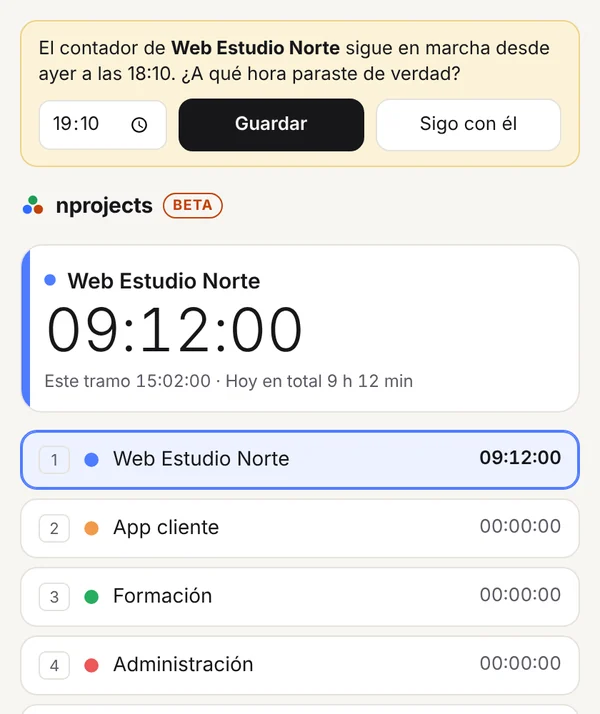
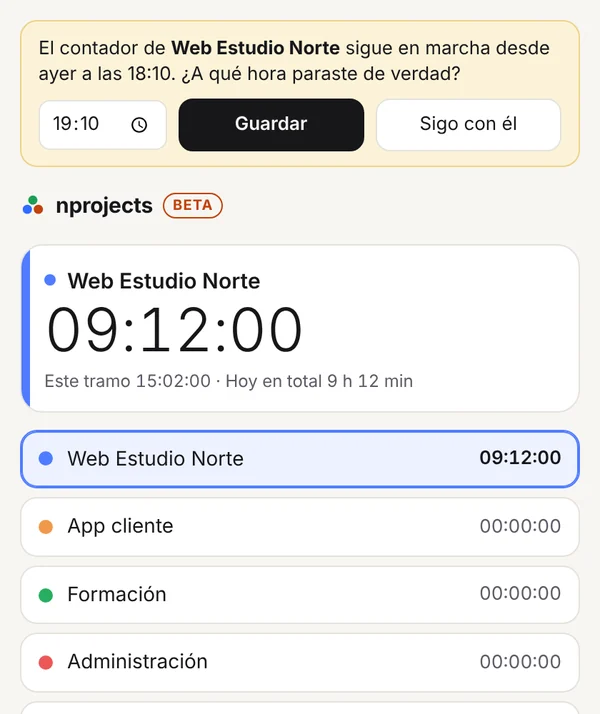
Quitar las referencias a los atajos de teclado en la web y en la app
Mientras no exista la versión de escritorio, las teclas solo funcionan
con la ventana de nprojects activa. Se cambia el mensaje a «un clic»:
- App: sin insignias de número en los proyectos ni textos de teclas.
- Web: textos, tarjeta, tabla de diferencias, plan Gratis y maqueta.
- Capturas regeneradas.
Los atajos siguen funcionando, pero sin anunciarse.

Claude-Session: https://claude.ai/code/session_01NjNeR2BJbp8xc9cegBDyTH

Changed region(s): [[0.06, 0.8011, 0.96, 0.9552], [0.03, 0.6162, 0.96, 0.7703], [0.93, 0.986, 0.96, 1.0]]

diff --git a/index.html b/index.html
@@ -4,9 +4,9 @@
 <meta charset="utf-8">
 <meta name="viewport" content="width=device-width, initial-scale=1">
 <title>nprojects · Sabe cuánto tiempo le das a cada proyecto</title>
-<meta name="description" content="Un contador diminuto para Mac y Windows. Cambias de proyecto con una tecla y al final del día ves cómo se repartió tu tiempo. Apúntate a la lista de espera.">
+<meta name="description" content="Un contador diminuto para Mac y Windows. Cambias de proyecto con un clic y al final del día ves cómo se repartió tu tiempo. Apúntate a la lista de espera.">
 <meta property="og:title" content="nprojects · Sabe cuánto tiempo le das a cada proyecto">
-<meta property="og:description" content="Un contador diminuto para Mac y Windows. Cambias de proyecto con una tecla y al final del día ves cómo se repartió tu tiempo.">
+<meta property="og:description" content="Un contador diminuto para Mac y Windows. Cambias de proyecto con un clic y al final del día ves cómo se repartió tu tiempo.">
 <meta property="og:type" content="website">
 <link rel="icon" href="favicon.svg" type="image/svg+xml">
 <link rel="preconnect" href="https://fonts.googleapis.com">
@@ -30,7 +30,7 @@
     <div class="hero-copy">
       <span class="pill">Para Mac y Windows · Próximamente</span>
       <h1>Sabe cuánto tiempo le das a cada proyecto. Sin pensar en ello.</h1>
-      <p class="lead">Un contador diminuto que vive en una esquina de tu pantalla. Cambias de proyecto con una tecla y, al final del día, ves cómo se repartió tu tiempo de verdad.</p>
+      <p class="lead">Un contador diminuto que vive en una esquina de tu pantalla. Cambias de proyecto con un clic y, al final del día, ves cómo se repartió tu tiempo de verdad.</p>
       <form class="waitlist" data-source="hero" novalidate>
         <label for="email-top">Tu email</label>
         <div class="field-row">
@@ -60,10 +60,10 @@
           <span class="w-ico"><svg width="10" height="10" viewBox="0 0 10 10"><rect x="1.5" y="1" width="2.5" height="8" rx=".6" fill="#17171A"/><rect x="6" y="1" width="2.5" height="8" rx=".6" fill="#17171A"/></svg></span>
           <span class="w-ico"><svg width="10" height="10" viewBox="0 0 10 10"><rect x="1.5" y="1.5" width="7" height="7" rx="1" fill="#C0392B"/></svg></span>
         </div>
-        <div class="w-row"><span class="k">1</span><span class="dot" style="background:#2F6BFF"></span><span class="n">Web Estudio Norte</span><span class="t">02:10:05</span></div>
-        <div class="w-row on"><span class="k">2</span><span class="dot" style="background:#C2410C"></span><span class="n">App cliente</span><span class="t">01:24:37</span></div>
-        <div class="w-row"><span class="k">3</span><span class="dot" style="background:#1F9D55"></span><span class="n">Formación</span><span class="t">00:45:12</span></div>
-        <div class="w-row"><span class="k">4</span><span class="dot" style="background:#8B5CF6"></span><span class="n">Administración</span><span class="t">00:20:40</span></div>
+        <div class="w-row"><span class="dot" style="background:#2F6BFF"></span><span class="n">Web Estudio Norte</span><span class="t">02:10:05</span></div>
+        <div class="w-row on"><span class="dot" style="background:#C2410C"></span><span class="n">App cliente</span><span class="t">01:24:37</span></div>
+        <div class="w-row"><span class="dot" style="background:#1F9D55"></span><span class="n">Formación</span><span class="t">00:45:12</span></div>
+        <div class="w-row"><span class="dot" style="background:#8B5CF6"></span><span class="n">Administración</span><span class="t">00:20:40</span></div>
       </div>
     </div>
   </section>
@@ -84,9 +84,9 @@
     <h2 class="h2">Pensado para no estorbar</h2>
     <div class="cards">
       <article class="card">
-        <svg width="28" height="28" viewBox="0 0 24 24" fill="none" stroke="#C2410C" stroke-width="1.8" stroke-linecap="round" stroke-linejoin="round" aria-hidden="true"><rect x="2" y="6" width="20" height="12" rx="2"/><path d="M6 10h.01M10 10h.01M14 10h.01M18 10h.01M7 14h10"/></svg>
-        <h3>Cambia con una tecla</h3>
-        <p>Del 1 al 0, desde cualquier app. El proyecto anterior se para y el nuevo empieza a contar.</p>
+        <svg width="28" height="28" viewBox="0 0 24 24" fill="none" stroke="#C2410C" stroke-width="1.8" stroke-linecap="round" stroke-linejoin="round" aria-hidden="true"><path d="M14 4.1 12 6M5.1 8l-2.9-.8M6 12l-1.9 2M7.2 2.2 8 5.1"/><path d="M9.04 9.69a.5.5 0 0 1 .65-.65l11 4.5a.5.5 0 0 1-.07.95l-4.35 1.04a1 1 0 0 0-.74.74l-1.04 4.35a.5.5 0 0 1-.95.07z"/></svg>
+        <h3>Cambia con un clic</h3>
+        <p>Pulsas el proyecto y empieza a contar. El anterior se para solo, sin pasos intermedios.</p>
       </article>
       <article class="card">
         <svg width="28" height="28" viewBox="0 0 24 24" fill="none" stroke="#C2410C" stroke-width="1.8" stroke-linecap="round" stroke-linejoin="round" aria-hidden="true"><rect x="3" y="4" width="18" height="16" rx="2"/><rect x="12" y="7" width="6" height="5" rx="1"/></svg>
@@ -114,8 +114,8 @@
     </div>
     <div class="shots">
       <figure class="shot">
-        <img src="img/app-principal.webp" width="600" height="714" loading="lazy" alt="Pantalla principal de nprojects: el contador de App cliente en marcha y la lista de proyectos con su tecla del 1 al 5">
-        <figcaption><strong>Un proyecto por tecla</strong>Pulsa su número y empieza a contar. El anterior se para solo.</figcaption>
+        <img src="img/app-principal.webp" width="600" height="714" loading="lazy" alt="Pantalla principal de nprojects: el contador de App cliente en marcha y la lista de proyectos con el tiempo de cada uno">
+        <figcaption><strong>Un clic para cambiar</strong>Pulsa un proyecto y empieza a contar. El anterior se para solo.</figcaption>
       </figure>
       <figure class="shot">
         <img src="img/app-resumen.webp" width="600" height="714" loading="lazy" alt="Resumen del día: 7 h 07 min repartidas entre cuatro proyectos, con porcentajes y una barra de cómo se repartió el día">
@@ -162,7 +162,7 @@
           <div class="cmp-row" role="row"><span role="rowheader">Precio</span><span role="cell"><strong>29 € una vez</strong></span><span role="cell">Cuota mensual por usuario</span></div>
           <div class="cmp-row" role="row"><span role="rowheader">Cuenta</span><span role="cell"><strong>No hace falta</strong></span><span role="cell">Obligatoria</span></div>
           <div class="cmp-row" role="row"><span role="rowheader">Tus horas</span><span role="cell"><strong>En tu ordenador</strong></span><span role="cell">En sus servidores</span></div>
-          <div class="cmp-row" role="row"><span role="rowheader">Cambiar de proyecto</span><span role="cell"><strong>Una tecla</strong></span><span role="cell">Abrir, buscar y pulsar</span></div>
+          <div class="cmp-row" role="row"><span role="rowheader">Cambiar de proyecto</span><span role="cell"><strong>Un clic</strong></span><span role="cell">Abrir, buscar y pulsar</span></div>
           <div class="cmp-row" role="row"><span role="rowheader">Pensada para</span><span role="cell"><strong>Saber a qué dedicas tu día</strong></span><span role="cell">Facturar y controlar equipos</span></div>
         </div>
       </div>
@@ -179,7 +179,7 @@
       <article class="price">
         <h3>Gratis</h3>
         <div class="amount">0 €</div>
-        <ul><li>Hasta 3 proyectos</li><li>Ventana flotante y atajos</li><li>Historial de los últimos 7 días</li></ul>
+        <ul><li>Hasta 3 proyectos</li><li>Ventana flotante y modo compacto</li><li>Historial de los últimos 7 días</li></ul>
       </article>
       <article class="price featured">
         <h3>Pro</h3>

diff --git a/app/app.js b/app/app.js
@@ -51,7 +51,6 @@
   const live = () => S.projects.filter(p => !p.archived);
   const pname = id => { const p = proj(id); return p ? p.name : '(proyecto eliminado)'; };
   const pcolor = id => { const p = proj(id); return p ? p.color : '#999'; };
-  const keyFor = i => i < 9 ? String(i + 1) : (i === 9 ? '0' : '');
   const day = k => (S.days[k] = S.days[k] || []);
   function dateLabel(k) {
     if (k === todayKey()) return 'Hoy';
@@ -232,7 +231,7 @@
         <div class="cur-name">${a ? `<span class="live-dot"></span>${esc(pname(a.p))}` : '<span class="state">En pausa</span>'}</div>
         <div class="cur-time num" id="curTotal">00:00:00</div>
         <div class="ctrls">
-          <button class="ico" data-act="pause" ${a ? '' : 'disabled'} title="Pausa (espacio)" aria-label="Pausa">${ICON_PAUSE}</button>
+          <button class="ico" data-act="pause" ${a ? '' : 'disabled'} title="Pausa" aria-label="Pausa">${ICON_PAUSE}</button>
           <button class="ico stop" data-act="end" title="Terminar jornada" aria-label="Terminar jornada">${ICON_STOP}</button>
         </div>
         <div class="cur-sub num">${a ? `Este tramo <span id="curSeg"></span> · ` : ''}Hoy en total <span id="dayTotal"></span></div>
@@ -250,8 +249,8 @@
       </nav>`;
     }
     const btns = ps.map((p, i) => `
-      <button class="pbtn ${a && a.p === p.id ? 'on' : ''}" data-act="switch" data-pid="${p.id}" style="--c:${p.color}" title="Tecla ${keyFor(i)}${a && a.p === p.id ? ' · clic para pausar' : ''}">
-        <span class="key">${keyFor(i)}</span><span class="dot"></span>
+      <button class="pbtn ${a && a.p === p.id ? 'on' : ''}" data-act="switch" data-pid="${p.id}" style="--c:${p.color}" title="${a && a.p === p.id ? 'Clic para pausar' : 'Clic para empezar a contar'}">
+        <span class="dot"></span>
         <span class="pname">${esc(p.name)}</span><span class="ptime num" data-ptime="${p.id}"></span>
       </button>`).join('');
     const pipOk = 'documentPictureInPicture' in window && !pipWin;
@@ -261,7 +260,7 @@
         <button data-act="pause" ${a ? '' : 'disabled'}>Pausa</button>
         <button class="primary" data-act="end">Terminar jornada</button>
       </div>
-      <div class="hint">Teclas 1–9 y 0 para cambiar de proyecto · espacio para pausar</div>
+      <div class="hint">Clic en un proyecto para cambiar · clic en el activo para pausar</div>
       <nav class="links">
         <button data-act="go" data-v="summary">Resumen</button>
         <button data-act="go" data-v="segments">Tramos</button>
@@ -358,8 +357,7 @@
         ${ps.length < MAX ? `<form class="addrow" data-form="add"><input name="name" placeholder="Nuevo proyecto" maxlength="40" autocomplete="off" aria-label="Nuevo proyecto"><button class="primary">Añadir</button></form>`
           : `<div class="muted small">Has llegado al máximo de ${MAX}. Quita uno para añadir otro.</div>`}
       </div>
-      ${archRows}
-      <div class="hint">El orden marca la tecla: el primero es el 1, el décimo el 0.</div>`;
+      ${archRows}`;
   }
 
   function settingsHTML() {

diff --git a/app/app.css b/app/app.css
@@ -34,8 +34,7 @@
 
   /* Botones de proyecto */
   .grid{display:flex;flex-direction:column;gap:6px}
-  .pbtn{display:grid;grid-template-columns:22px 10px 1fr auto;align-items:center;gap:10px;text-align:left;padding:10px 12px;border-radius:12px}
-  .pbtn .key{font-size:11px;color:var(--muted);border:1px solid var(--line);border-radius:5px;text-align:center;line-height:18px}
+  .pbtn{display:grid;grid-template-columns:10px 1fr auto;align-items:center;gap:10px;text-align:left;padding:10px 12px;border-radius:12px}
   .pbtn .dot{width:10px;height:10px;border-radius:50%;background:var(--c)}
   .pbtn .pname{overflow:hidden;text-overflow:ellipsis;white-space:nowrap}
   .pbtn .ptime{color:var(--muted);font-size:13px}
@@ -121,8 +120,7 @@
   #app.in-pip .ico svg{width:10px;height:10px}
   #app.in-pip .cur-sub,#app.in-pip .actions,#app.in-pip .hint,#app.in-pip .links,#app.in-pip .sync{display:none}
   #app.in-pip .grid{gap:3px}
-  #app.in-pip .pbtn{grid-template-columns:14px 7px 1fr auto;gap:6px;padding:3px 7px;border-radius:7px;font-size:12px}
-  #app.in-pip .pbtn .key{font-size:9px;line-height:13px;border-radius:3px}
+  #app.in-pip .pbtn{grid-template-columns:7px 1fr auto;gap:6px;padding:3px 7px;border-radius:7px;font-size:12px}
   #app.in-pip .pbtn .dot{width:7px;height:7px}
   #app.in-pip .pbtn .ptime{font-size:11px}
   #app.in-pip .banner{padding:6px 8px;font-size:11px;gap:5px}

diff --git a/styles.css b/styles.css
@@ -59,7 +59,6 @@ button[disabled]{opacity:.6;cursor:default}
 .w-ico{width:22px;height:22px;border:1px solid #ECEAE5;border-radius:6px;display:inline-flex;align-items:center;justify-content:center}
 .w-row{display:flex;align-items:center;gap:8px;padding:5px 8px;border-radius:8px;border:1px solid #ECEAE5}
 .w-row.on{border-color:var(--accent);background:#FDF1EA}
-.w-row .k{font-size:10px;color:var(--muted);border:1px solid #E2DFD8;border-radius:4px;width:16px;text-align:center;line-height:15px}
 .w-row .dot{width:7px;height:7px}
 .w-row .n{flex:1 1 auto;min-width:0;overflow:hidden;white-space:nowrap;text-overflow:ellipsis}
 .w-row .t{font-size:12px;color:var(--muted);font-variant-numeric:tabular-nums}
